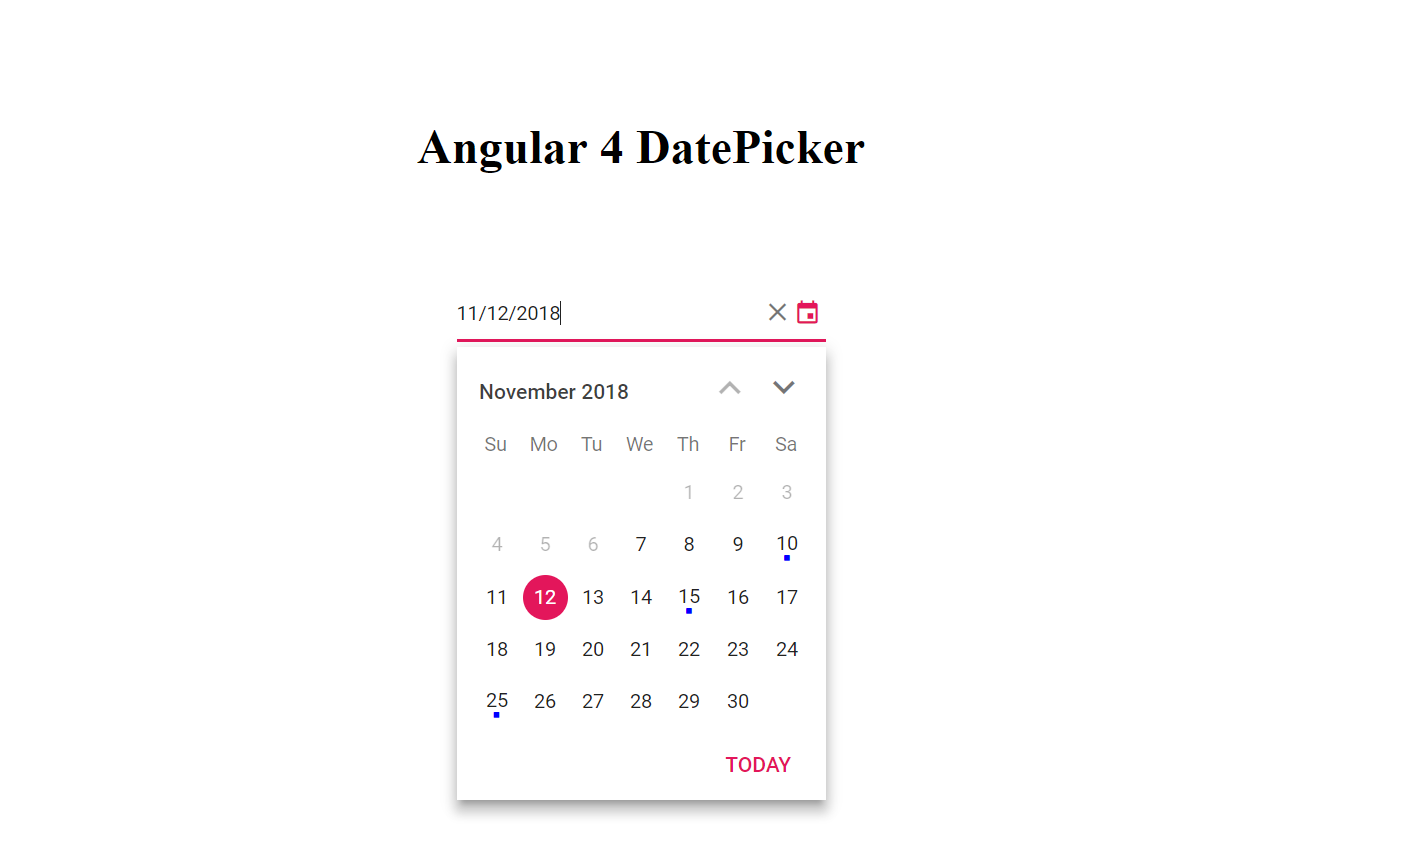
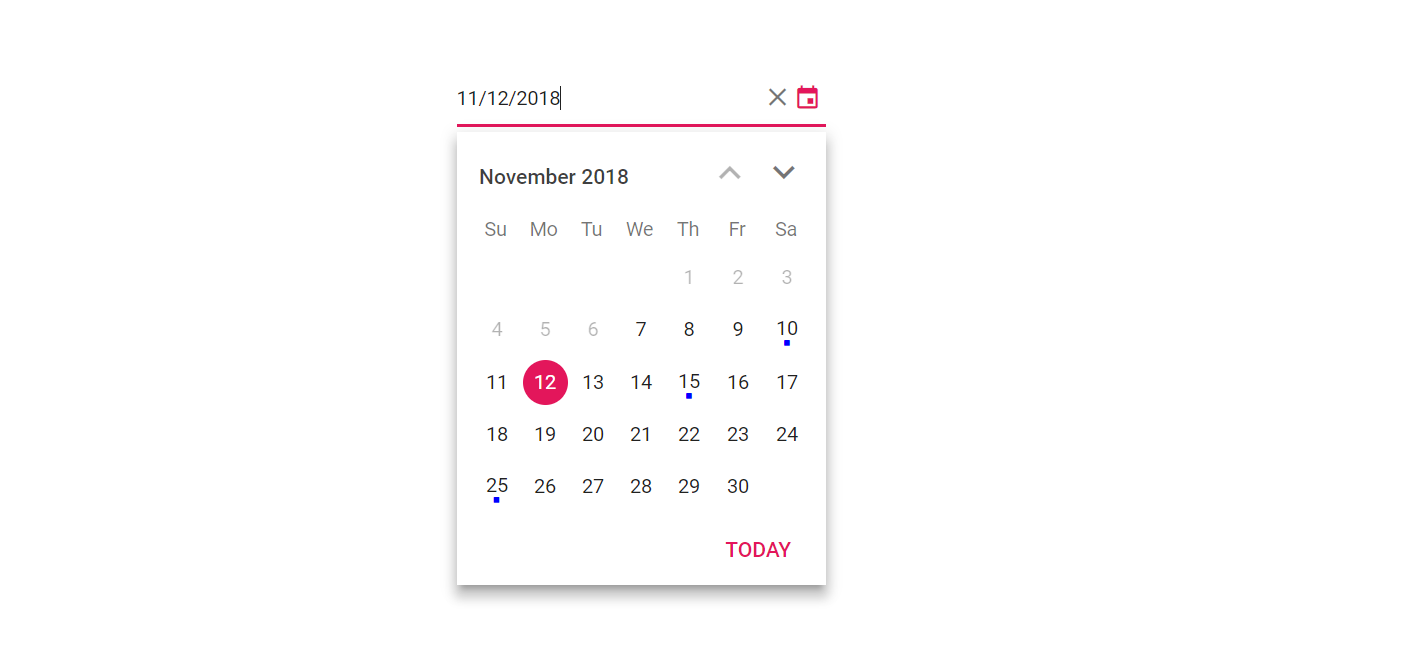
image updated

diff --git a/README.md b/README.md
@@ -1,7 +1,9 @@
 # EJ2 Angular 4 DatePicker Quick Start
 A quick start project that helps you to create the Syncfusion Angular 4 DatePicker.
 
-![Angular 4 DatePicker](angular4datepicker.png)
+
+![Angular 4 DatePicker](angular4datepicker.png "Angualar 4 Datepicker")
+<p align="center">Angular 4 DatePicker</p>
 
 This is a Angular 4 project generated using [Angular CLI](https://github.com/angular/angular-cli) version 1.4.10. The Datepicker features included in this project are as follows.
 * Min - Starting date that can be selected.
